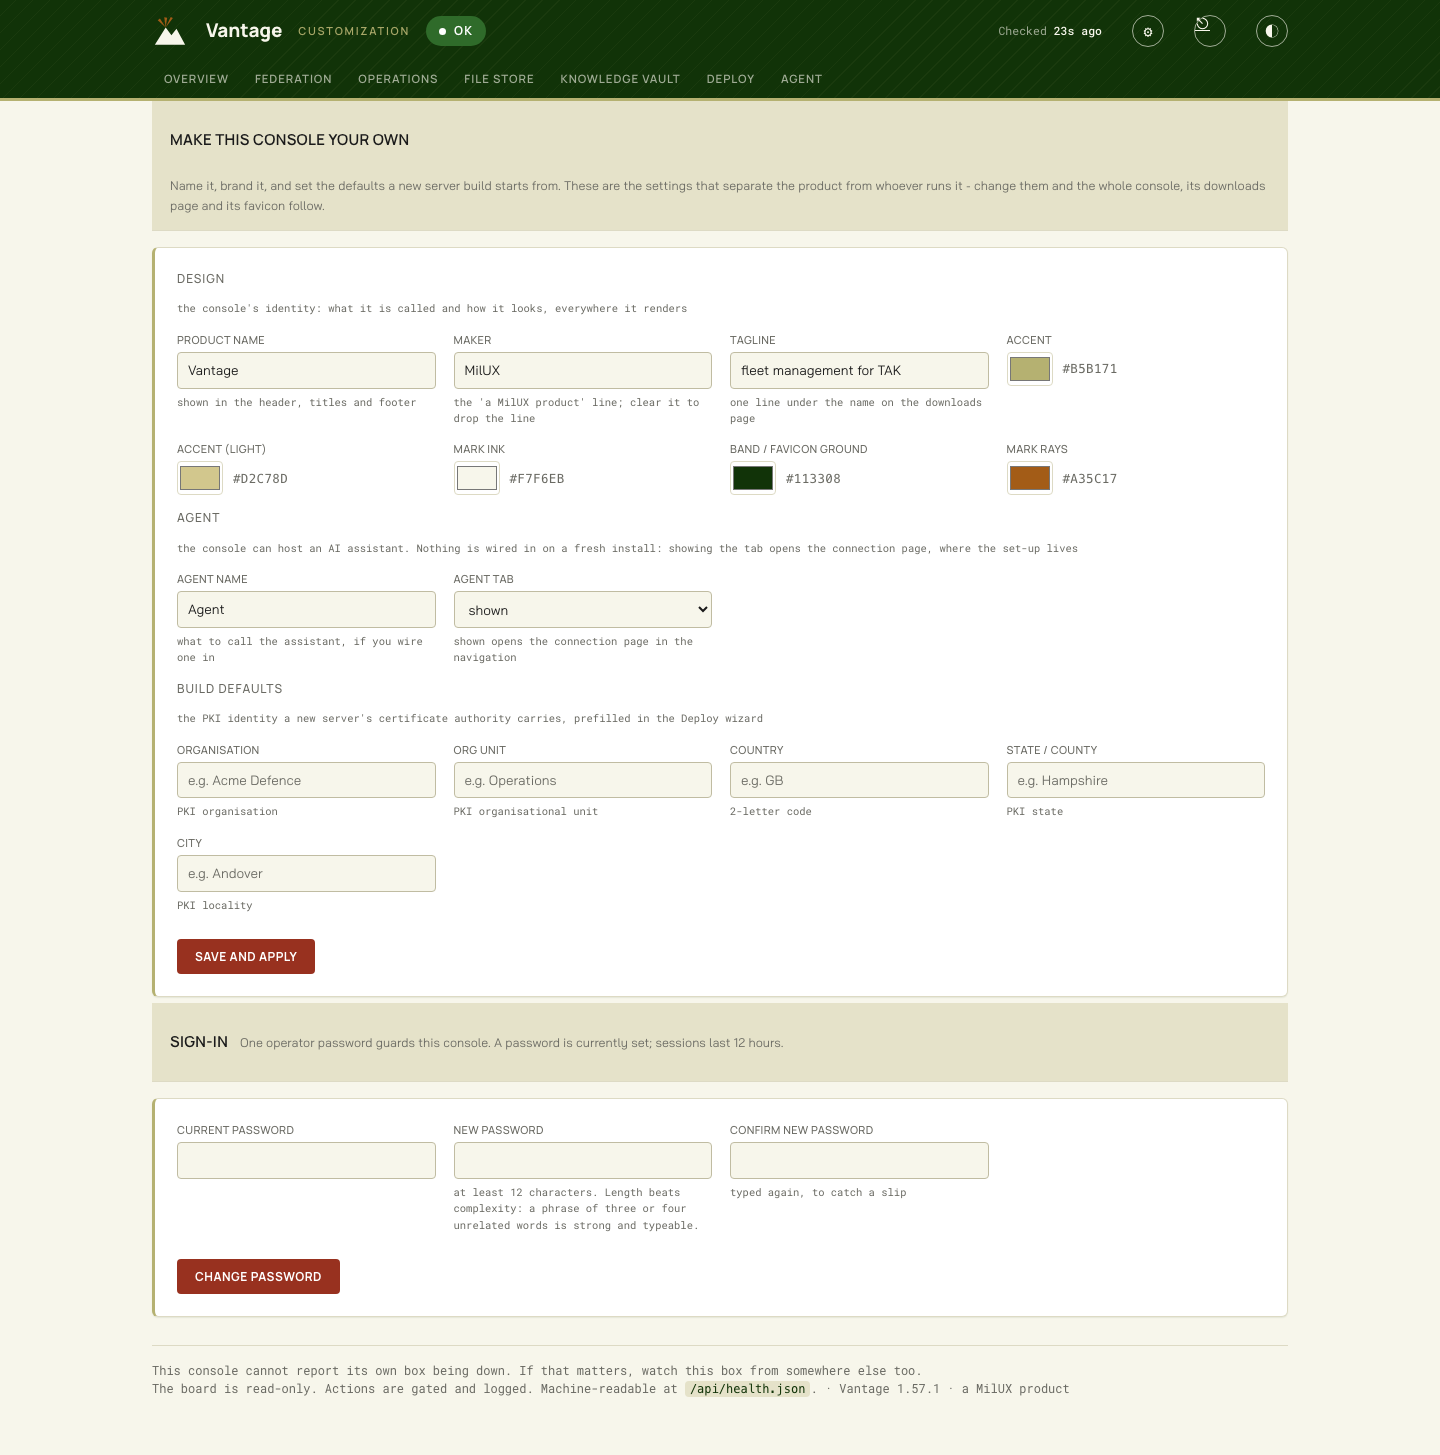
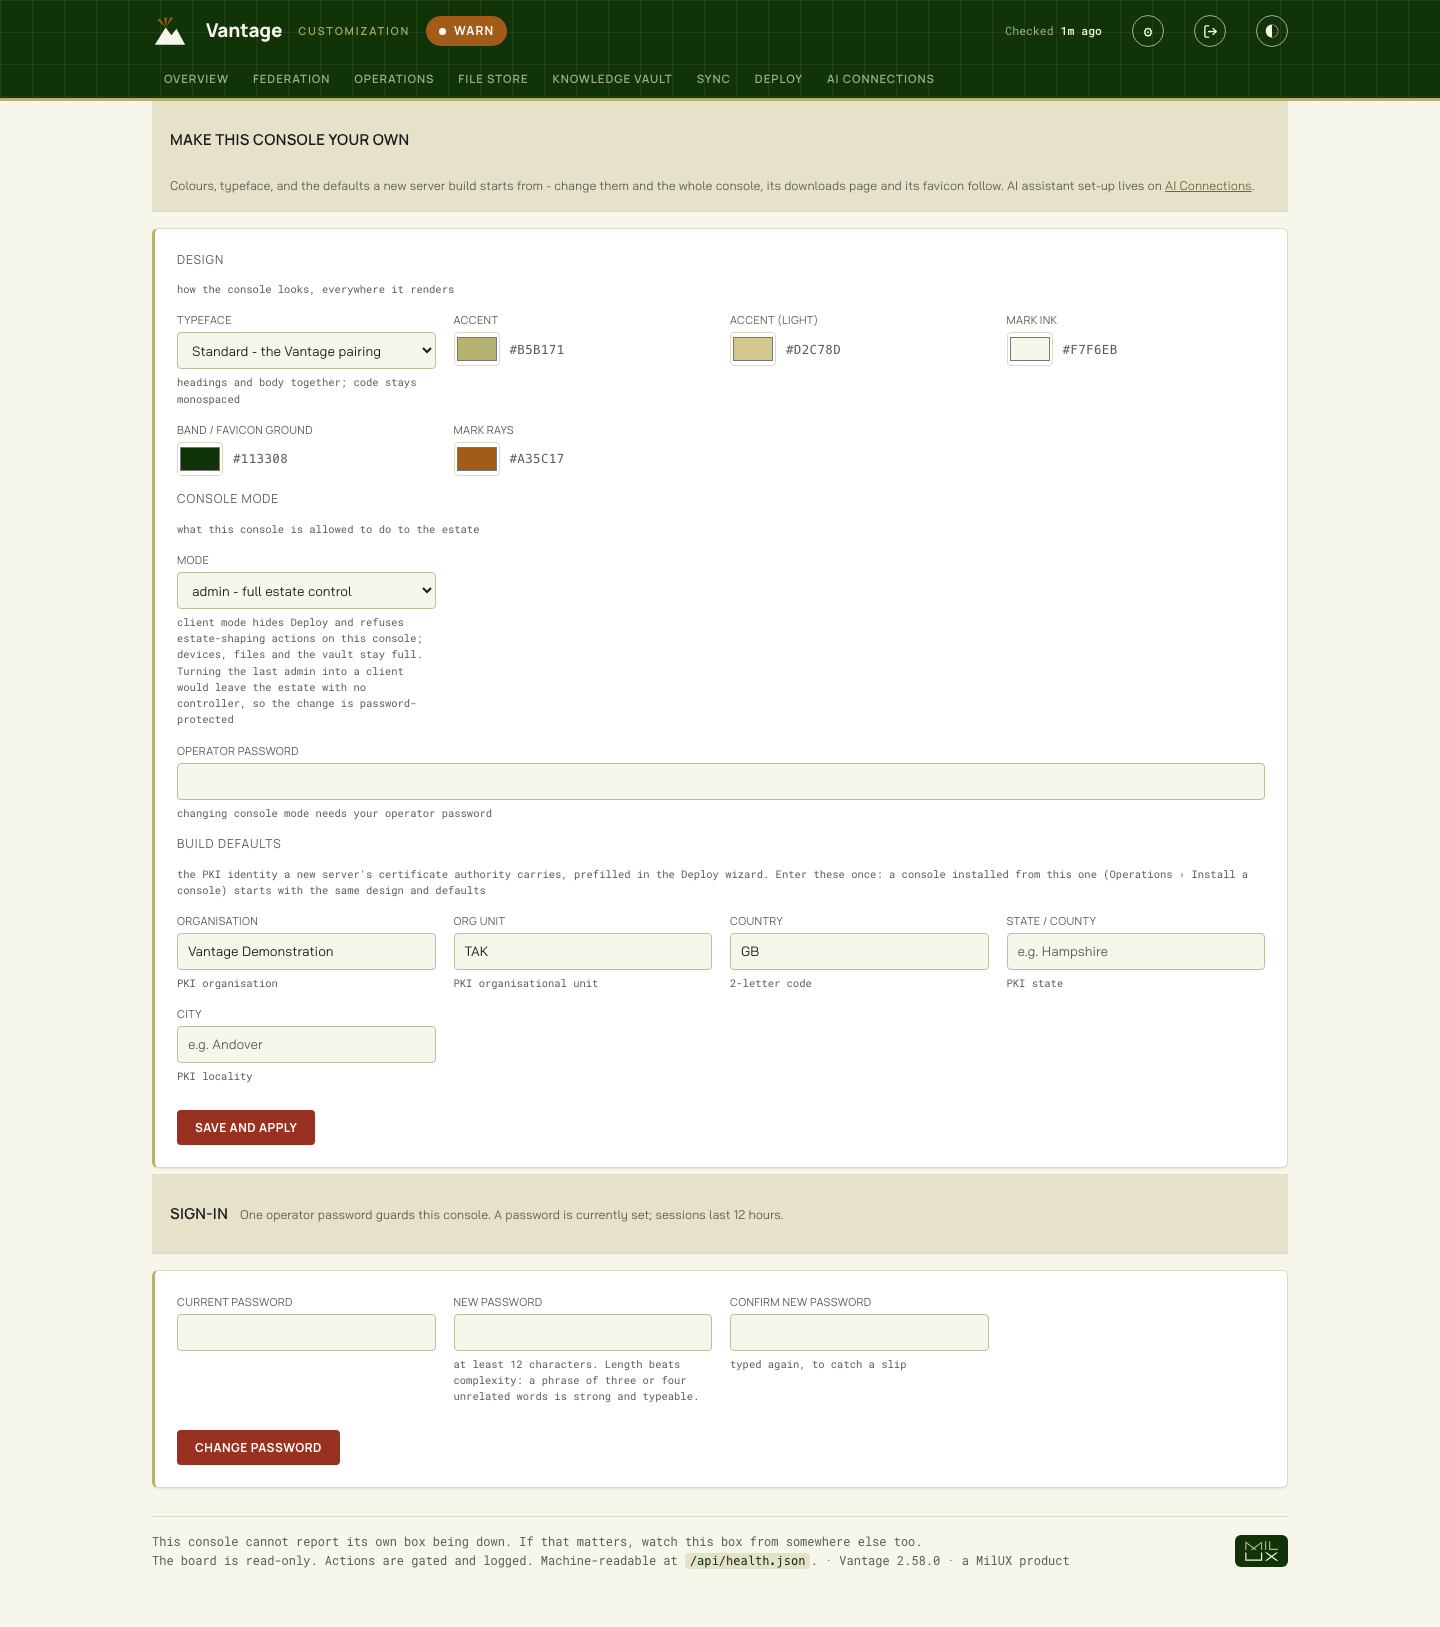
docs: the user guide shows the console as it is now
Synced from milux-tak main after PR #221. Screens 06 to 14 recaptured from
console 2.58.0 against the reference estate; the four build-sequence screens
are unchanged. The guide's opening and the README caption now say which is
which.

diff --git a/USER-GUIDE.md b/USER-GUIDE.md
@@ -3,9 +3,11 @@
 # Vantage Field Guide
 
 What the console does, screen by screen, and what happens underneath when you press the
-button - illustrated with live captures from a real end-to-end build (a fresh Ubuntu box
-to a device on the map, entirely through the browser). Captured against console
-1.57.2 on a fresh Ubuntu 22.04 box, built end to end through the browser.
+button, illustrated with the console's own screens. The build sequence (the welcome gate,
+the empty overview, the build running, the estate after it) was captured from a real
+end-to-end build on a fresh Ubuntu 22.04 box. The screens after it were captured on
+4 September 2026 from console 2.58.0 running against the reference estate, the same
+seven fictional servers the walkthrough uses, so they show the console as it is now.
 
 Vantage is MilUX's operations console for a whole TAK estate: one place to build, watch,
 operate, upgrade and federate every TAK server you run, from a browser. It turns a fresh
@@ -152,7 +154,7 @@ its own console then manages.
 
 ## Operations
 
-![Operations with the TAK server group open - and below, the audit log carrying the day's actual trail, denials included.](assets/screens/08-operations-with-the-tak-server-group-open-real-a.png)
+![Operations: every box in the estate, the updates panel, and below, the audit log carrying the day's actual trail, denials and failures included.](assets/screens/08-operations-with-the-tak-server-group-open-real-a.png)
 *Operations with the TAK server group open - and below, the audit log carrying the day's actual trail, denials included.*
 
 The estate, and the trail of what has been done to it. Operations lists the same servers
@@ -290,10 +292,10 @@ for landscape, because the device is expected to ride on the chest.
 
 ## The Agent
 
-![AI Connections: the autonomy dial explained, the connection routes, and the live activity feed below.](assets/screens/13-the-agent-hub-the-autonomy-dial-explained-three-.png)
+![AI Connections: what is connected first, then the three routes in, and the autonomy level a new connection gets.](assets/screens/13-the-agent-hub-the-autonomy-dial-explained-three-.png)
 *AI Connections: the autonomy dial explained, the connection routes, and the live activity feed below.*
 
-The Agent tab is a connection hub: you decide how AI connects and how much it may do. No
+The AI Connections tab is a connection hub: you decide how AI connects and how much it may do. No
 route bills you for the AI itself - the model that thinks is always the one you bring.
 
 **The autonomy dial**, set per connection: **Observe** reads the estate and vault and

diff --git a/README.md b/README.md
@@ -62,8 +62,8 @@ the skills under [`skills/`](skills/) can be used on your own kit without instal
 Vantage at all.
 
 ![A server's page, live: health in full, software against the baseline, modules, security posture, Add a device](assets/screens/06-a-server-s-page-health-in-full-software-against-.png)
-*A server's page, live. The [user guide](USER-GUIDE.md) walks every screen with captures
-from a real end-to-end build.*
+*A server's page, live. The [user guide](USER-GUIDE.md) walks every screen: the build
+sequence from a real end-to-end build, the rest from the console as it is now.*
 
 The rest of this guide is the practical path: install the console, build your first
 server, get a device on the map, then grow the estate.
